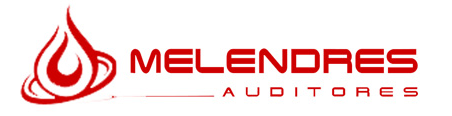
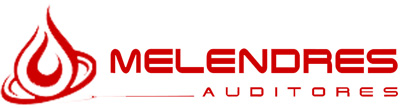
cambios del reporte el 10/10/222

diff --git a/resources/views/reports2/reports-alls-periods.blade.php b/resources/views/reports2/reports-alls-periods.blade.php
@@ -2,165 +2,171 @@
 
 <head>
     <style type="text/css">
-        .a {
-            border: 1px solid black;
-            width: 49%;
+        @page {
+            margin: 80px 74px 74px 100px;
         }
 
-        .b {
-            border: 1px solid black;
-            width: 49%;
-            margin-left: 5px;
+        header {
+            border-bottom: 2px solid #CC0101;
+            position: fixed;
+            top: -60px;
+            left: 0px;
+            right: 0px;
         }
 
-        .contenedor {
-            margin: 0 auto;
-        }
-
-        .contenedor .a,
-        .contenedor .b {
-            display: inline-block;
-        }
 
         footer {
-            border-top: 1px solid black;
+            border-top: 2px solid #CC0101;
             position: fixed;
-            bottom: -40px;
-
-            height: 40px;
-
-            /** Extra personal styles **/
+            bottom: -60px;
+            left: 0px;
+            right: 0px;
 
             color: black;
             text-align: center;
+        }
 
+        #watermark {
+            position: fixed;
+            right: 5%;
+            bottom: 25%;
+            width: 15cm;
+            height: 15cm;
+            z-index: -1000;
+            opacity: 0.3;
+            display: flex;
+            justify-content: center;
+            align-items: center;
         }
     </style>
 </head>
 
 <body>
-    <div style="font-size: 12px; font-family: Arial, Helvetica, sans-serif;">
-        <div style="text-align: right;">
-            <img src="<?php echo $pic ?>" alt="" width="250px">
+    <div id="watermark">
+        <img src="../resources/views/icon.png" height="100%" width="100%" />
+    </div>
+    <header>
+        <div style="text-align: right; margin-bottom: 5px;">
+            <img src="<?php echo $pic ?>" alt="" width="250px" height="60px">
         </div>
-        <h1 style="text-align: center; font-size: 35px; font-family: Arial, Helvetica, sans-serif; text-decoration: underline; margin: 5px;">{{ $business['bussName'] }}</h1>
-        <h2 style="text-align: center; font-size: 25px; font-family: Arial, Helvetica, sans-serif; margin-top: 0px;">RUC: {{ $business['bussRUC'] }}</h2>
-        <h2 style="text-align: right; font-size: 12px; font-family: Arial, Helvetica, sans-serif; margin-top: 5px;">Pasco, {{ $date }}</h2>
+    </header>
+    <footer>
+        <div style="font-size: 10.8px; line-height: 12px; padding-top: 5px;">EL PRESENTE ES PARA INFORMAR RESPECTO A LOS HONORARIOS POR SERVICIOS QUE NOS ADEUDA HASTA LA FECHA. <br> Ante cualquier duda o consulta, sírvase comunicarse con nosotros al celular <span style="color: red; font-weight: bold;">N° 973896051 / 951415451</span> a los señores: <br> José Luis MELENDRES CÓNDOR y/o Rita Cindy MIRANDA RAMOS, o al correo <span style="color: blue; font-weight: bold;">melendres.auditores@hotmail.com</span></div>
+    </footer>
+    <main>
+        <div style="font-size: 12px; font-family: Arial, Helvetica, sans-serif;">
+            <h1 style="text-align: center; font-size: 35px; font-family: Arial, Helvetica, sans-serif; text-decoration: underline; margin: 5px;">{{ $business['bussName'] }}</h1>
+            <h2 style="text-align: center; font-size: 25px; font-family: Arial, Helvetica, sans-serif; margin-top: 0px;">RUC: {{ $business['bussRUC'] }}</h2>
+            <h2 style="text-align: right; font-size: 12px; font-family: Arial, Helvetica, sans-serif; margin-top: 5px;">Pasco, {{ $date }}</h2>
 
-        @foreach($d_business_period as $key => $value)
-        <table style="width: 100%;" border="1" cellspacing="0">
-            <tr>
-                <th colspan="4" style="font-size: 20px; letter-spacing: 8px;">EJERCICIO {{ $value->periods['prdsNameShort'] }}</th>
-            </tr>
-            <tr>
-                <th>MESES</th>
-                <th>DESCRIPCIÓN</th>
-                <th colspan="2">DEUDA</th>
-
-            </tr>
-            @foreach($value['serviceProvided'] as $key=> $val)
-            <tr>
-                <th style="font-weight: lighter;">{{ $val->periodPayments['ppayName'] }}</th>
-                <th style="width: 45%; font-weight: lighter;">{{ $val->services['svName'] }}</th>
-
-                <th style="width: 1px; font-weight: lighter; border-right: 1px solid white;">&nbspS/</th>
-                <th style="width: 25%; font-weight: lighter; text-align: right;">{{ $val['spDebt'] }}</th>
-            </tr>
-            @endforeach
-            <tr>
-                <th colspan="2" style="width: 35%;">TOTAL</th>
-                <th style="width: 1px; border-right: 1px solid white;">&nbspS/</th>
-                <th style="width: 25%; text-align: right;">{{ $value['dbpDebt'] }}</th>
-
-            </tr>
-        </table>
-        <br>
-        @endforeach
-
-        <table style="width: 100%;" border="1" cellspacing="0">
-            <tr>
-                <th colspan="3" style="font-size: 20px; letter-spacing: 8px;">RESUMEN GENERAL</th>
-
-            </tr>
-            <tr>
-                <th>AÑOS</th>
-
-                <th colspan="2">DEUDA</th>
-
-            </tr>
-            @php
-            $total = 0;
-            $total1 = 0;
-            $total2 = 0;
-            @endphp
             @foreach($d_business_period as $key => $value)
-            @php
-            $total += $value['dbpCost'];
-            $total1 += $value['dbpPaid'];
-            $total2 += $value['dbpDebt'];
-            @endphp
-            <tr>
-                <th style="font-weight: lighter;">{{ $value->periods['prdsNameShort'] }}</th>
-                <th style="width: 1px; border-right: 1px solid white; font-weight: lighter;">&nbspS/</th>
-                <th style="width: 25%; text-align: right; font-weight: lighter;">{{ $value['dbpDebt'] }}</th>
-            </tr>
+            <table style="width: 100%;" border="1" cellspacing="0">
+                <tr>
+                    <th colspan="4" style="font-size: 20px; letter-spacing: 8px;">EJERCICIO {{ $value->periods['prdsNameShort'] }}</th>
+                </tr>
+                <tr>
+                    <th>MESES</th>
+                    <th>DESCRIPCIÓN</th>
+                    <th colspan="2">DEUDA</th>
+
+                </tr>
+                @foreach($value['serviceProvided'] as $key=> $val)
+                <tr>
+                    <th style="font-weight: lighter;">{{ $val->periodPayments['ppayName'] }}</th>
+                    <th style="width: 45%; font-weight: lighter;">{{ $val->services['svName'] }}</th>
+
+                    <th style="width: 1px; font-weight: lighter; border-right: 1px solid white;">&nbspS/</th>
+                    <th style="width: 25%; font-weight: lighter; text-align: right;">{{ $val['spDebt'] }}</th>
+                </tr>
+                @endforeach
+                <tr>
+                    <th colspan="2" style="width: 35%;">TOTAL</th>
+                    <th style="width: 1px; border-right: 1px solid white;">&nbspS/</th>
+                    <th style="width: 25%; text-align: right;">{{ $value['dbpDebt'] }}</th>
+
+                </tr>
+            </table>
+            <br><br>
             @endforeach
-            <tr>
-                <th>TOTAL</th>
-                <th style="width: 1px; border-right: 1px solid white;">&nbspS/</th>
-                <th style="width: 25%; text-align: right;">{{ number_format($total2, 2, '.', '')}}</th>
-            </tr>
-        </table>
-    </div>
-    <br><br> <br>
-    <div class="contenedor">
-        <div class="a" style="font-size: 14px; font-weight: bold; text-align: center; font-family: Arial, Helvetica, sans-serif;">
-            CUENTA DE AHORROS <br> MELENDRES AUDITORES CONSULTORES S.A.C.
-            <div style="border-top: 1px solid black; padding: 8px;">
-                <span>Cuenta Soles BBVA BANCO CONTINENTAL</span> <br>
-                <span style="font-weight: normal;">N° 0011 0321 0200838764</span> <br><br>
 
-                <span>Código Interbancario CCI es </span> <br>
-                <span style="font-weight: normal;">011-321-000200838764-75</span>
-            </div>
-        </div>
-        <div class="b" style="font-size: 14px; font-weight: bold; text-align: center; font-family: Arial, Helvetica, sans-serif;">
-            CUENTA DIGITAL <br> JOSE LUIS MELENDRES CONDOR
-            <div style="border-top: 1px solid black; padding: 8px;">
-                <span style="font-size: 12px;">Cuenta Soles BCP BANCO DE CREDITO DEL PERU</span> <br>
-                <span style="font-weight: normal;">N° 280-94036878-0-05</span> <br><br>
+            <table align="right" style="width: 50%;" border="1" cellspacing="0">
+                <tr>
+                    <th colspan="3" style="font-size: 16px; letter-spacing: 5px;">RESUMEN GENERAL</th>
 
-                <span>Código Interbancario CCI es </span> <br>
-                <span style="font-weight: normal;">002-28019403687800568</span>
-            </div>
-        </div>
-    </div>
-    <br>
-    <div class="contenedor">
-        <div class="a" style="font-size: 14px; font-weight: bold; text-align: center; font-family: Arial, Helvetica, sans-serif;">
-            CUENTA SIMPLE <br> JOSE LUIS MELENDRES CONDOR
-            <div style="border-top: 1px solid black; padding: 8px;">
-                <span>Cuenta Soles BANCO INTERBANK </span> <br>
-                <span style="font-weight: normal;">N° 5903116283167</span> <br><br>
+                </tr>
+                <tr>
+                    <th>AÑOS</th>
 
-                <span>Código Interbancario CCI es </span> <br>
-                <span style="font-weight: normal;">-</span>
-            </div>
-        </div>
-        <div class="b" style="font-size: 14px; font-weight: bold; text-align: center; font-family: Arial, Helvetica, sans-serif;">
-            CUENTA DE AHORRROS <br> JOSE LUIS MELENDRES CONDOR
-            <div style="border-top: 1px solid black; padding: 8px;">
-                <span style="font-size: 12px;">Cuenta Soles CAJA HUANCAYO</span> <br>
-                <span style="font-weight: normal;">N° 107066211000651746</span> <br><br>
+                    <th colspan="2">DEUDA</th>
 
-                <span>Código Interbancario CCI es </span> <br>
-                <span style="font-weight: normal;">80806621100065174655</span>
-            </div>
+                </tr>
+                @php
+                $total = 0;
+                $total1 = 0;
+                $total2 = 0;
+                @endphp
+                @foreach($d_business_period as $key => $value)
+                @php
+                $total += $value['dbpCost'];
+                $total1 += $value['dbpPaid'];
+                $total2 += $value['dbpDebt'];
+                @endphp
+                <tr>
+                    <th style="font-weight: lighter;">{{ $value->periods['prdsNameShort'] }}</th>
+                    <th style="width: 1px; border-right: 1px solid white; font-weight: lighter;">&nbspS/</th>
+                    <th style="width: 50%; text-align: right; font-weight: lighter;">{{ $value['dbpDebt'] }}</th>
+                </tr>
+                @endforeach
+                <tr>
+                    <th>TOTAL</th>
+                    <th style="width: 1px; border-right: 1px solid white;">&nbspS/</th>
+                    <th style="width: 50%; text-align: right;">{{ number_format($total2, 2, '.', '')}}</th>
+                </tr>
+            </table>
         </div>
-    </div>
+        <br><br>
+        <div class="contenedor" style="font-size: 12px; font-family: Arial, Helvetica, sans-serif;">
+            <table style="width: 100%;" border="1" cellspacing="0">
+                <tr>
+                    <th>ENTIDAD BANCARIA</th>
+                    <th>CUENTA SOLES</th>
+                    <th>CÓDIGO INTERBANCARIO CCI</th>
+                </tr>
+                <tr>
+                    <th rowspan="2" style="text-align: center;">BBVA Banco Continental</th>
+                    <th style="text-align: center; font-weight: lighter;">Cuenta de Ahorros</th>
+                    <th rowspan="2" style="text-align: center;">011-321-000200838764-75</th>
+                </tr>
+                <tr>
+                    <th style="text-align: center;">N° 0011 0321 0200838764</th>
+                </tr>
+                <tr>
+                    <th rowspan="2" style="text-align: center;">BCP Banco de credito del Perú</th>
+                    <th style="text-align: center; font-weight: lighter;">Cuenta digital</th>
+                    <th rowspan="2" style="text-align: center;">002-28019403687800568</th>
+                </tr>
+                <tr>
+                    <th style="text-align: center;">N° 280-94036878-0-05</th>
+                </tr>
+                <tr>
+                    <th rowspan="2" style="text-align: center;">Banco Interbank</th>
+                    <th style="text-align: center; font-weight: lighter;">Cuenta simple</th>
+                    <th rowspan="2" style="text-align: center;">003-590-013116283167-74</th>
+                </tr>
+                <tr>
+                    <th style="text-align: center;">N° 5903116283167</th>
+                </tr>
+                <tr>
+                    <th rowspan="2" style="text-align: center;">Caja Huancayo</th>
+                    <th style="text-align: center; font-weight: lighter;">Cuenta de Ahorros</th>
+                    <th rowspan="2" style="text-align: center;">80806621100065174655</th>
+                </tr>
+                <tr>
+                    <th style="text-align: center;">N° 107066211000651746</th>
+                </tr>
+            </table>
+        </div>
+    </main>
 </body>
-<footer>
-    <div style="font-size: 11px; line-height: 12px; padding-top: 5px;">EL PRESENTE ES PARA INFORMAR RESPECTO A LOS HONORARIOS POR SERVICIOS QUE NOS ADEUDA HASTA LA FECHA. <br> Ante cualquier duda o consulta, sírvase comunicarse con nosotros al celular <span style="color: red;">N° 973896051 / 951415451</span> a los señores José Luis MELENDRES CÓNDOR y/o <br> Rita Cindy MIRANDA RAMOS, o al correo <span style="color: blue;">melendres.auditores@hotmail.com</span></div>
-</footer>
 
 </html>
